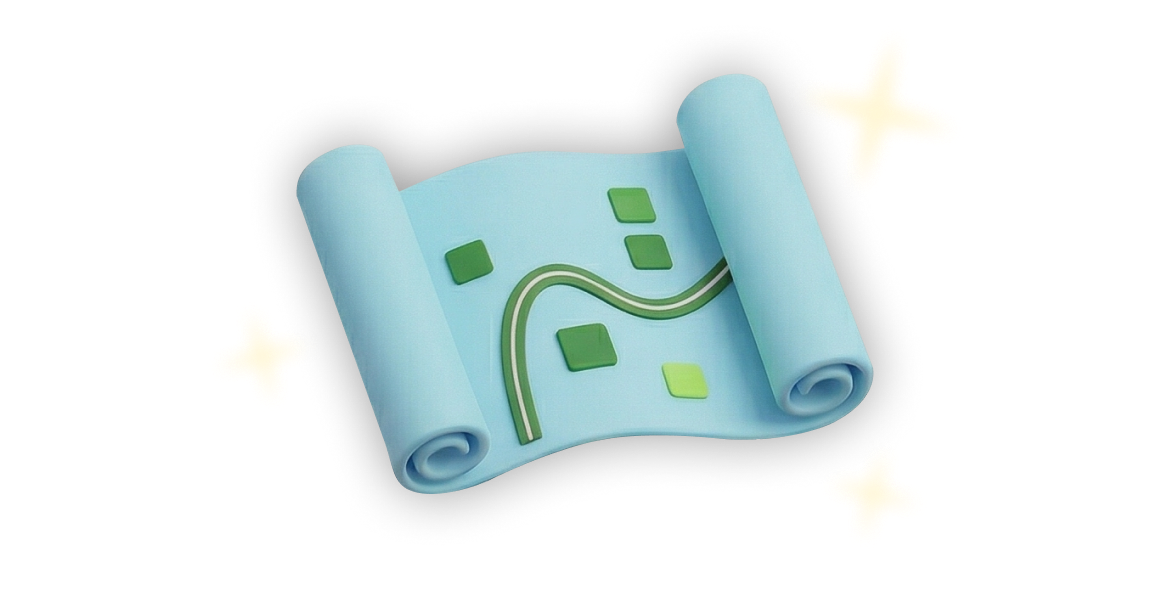
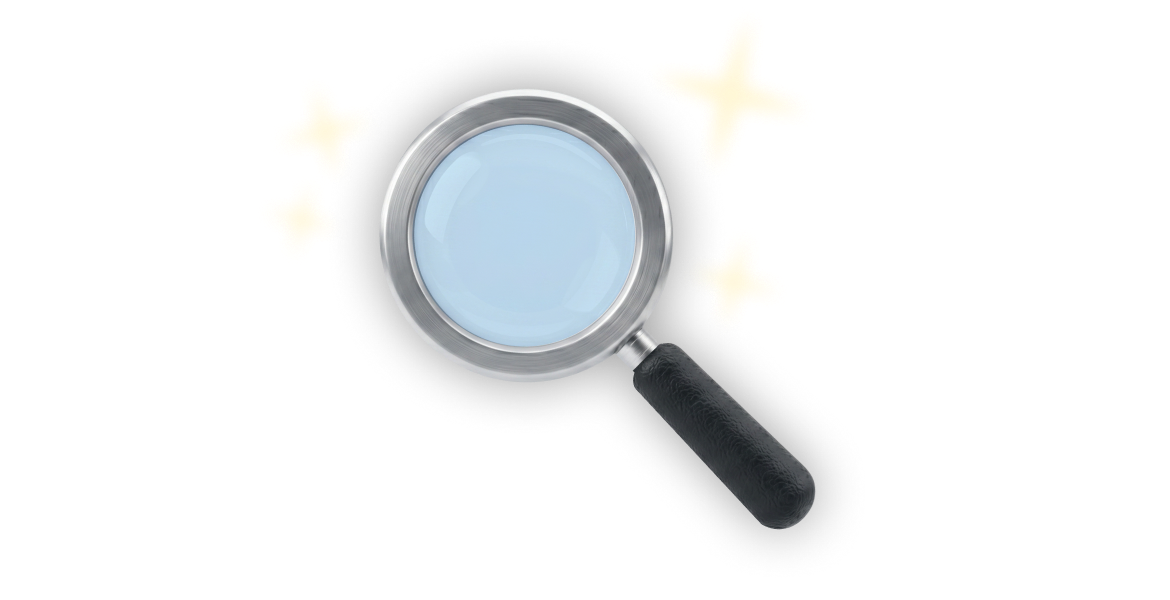
chore: figma 자산 정식 export로 교체 + harness 보강 (REST API 자가 export)
미션 3 가짜 PDP body 와 돋보기 popup 일러스트를 figma 1648:41636, 1648:42320
(scale=3) 으로 REST API export 하여 placeholder 를 교체한다. body 는 통째 export
후 header(0..94)/floating bar(1777..1857) 영역을 PIL 로 crop.

harness:
- 기존 "3x PNG 가 필요하면 사용자에게 export 요청" 규칙을 폐기하고
  "AI 가 Figma REST API 로 직접 export 한다" 로 변경. 사용자에게 export 를
  요청하지 말라는 명시 추가
- 텍스트 노드 inner span/text-shadow/이모지 누락 방지 가이드 (Mission 2 figma
  1648:39361 검증에서 도출, 직전 세션 미커밋 분)

diff --git a/CLAUDE.md b/CLAUDE.md
@@ -542,10 +542,32 @@ curl -o /tmp/asset.png "http://localhost:3845/assets/<hash>.png"
 curl -o /tmp/asset.svg "http://localhost:3845/assets/<hash>.svg"
 ```
 
-**합성된 프레임 (배너 등) 3x PNG export**: Figma MCP는 1x만 지원하므로 **사용자에게 직접 export 요청**
-- `get_screenshot`은 1x 해상도만 반환 (scale 파라미터 미지원)
-- 3x PNG가 필요한 경우: 사용자에게 Figma에서 해당 노드를 3x PNG로 export해서 파일 경로를 알려달라고 요청
-- 절대 1x를 upscale하거나 프로그래밍적으로 이미지를 생성하지 않는다
+**합성된 프레임 (배너 등) 3x PNG export — Figma REST API로 AI가 직접 export한다 (MANDATORY)**
+
+- `get_screenshot` (MCP) 은 1x 해상도만 반환 → MCP는 시각 검증용으로만 쓴다
+- 3x PNG 가 필요할 때 **사용자에게 export 를 요청하지 않는다**. Figma REST API 의 `/v1/images` 엔드포인트를 직접 호출하여 받는다.
+- **인증**: `~/.claude/CLAUDE.md` 의 `Figma Personal Access Token` 사용 (`X-Figma-Token: figd_...` 헤더)
+- **File key**: Figma URL 의 `/design/<file_key>/...` 세그먼트에서 추출 (SCC 프로젝트는 보통 `cpDrl9uG7RMjT5TvTGme3K`, `zcZnkEDGZZiCyA4mlJDAf0` 등)
+- **Node id**: Figma URL 쿼리 `?node-id=1648-42184` → API 에는 `1648:42184` 형식으로 (콜론). 콤마로 여러 개 동시 요청 가능
+
+표준 절차:
+
+```bash
+# 1) 이미지 export URL 받기 (S3 signed URL, 단명)
+curl -s "https://api.figma.com/v1/images/<FILE_KEY>?ids=<NODE_ID_1>,<NODE_ID_2>&scale=3&format=png" \
+  -H "X-Figma-Token: <PERSONAL_ACCESS_TOKEN>"
+# → {"err":null,"images":{"1648:42184":"https://figma-alpha-api.s3...","1648:42320":"https://..."}}
+
+# 2) S3 URL에서 PNG 다운로드
+curl -sS -o src/assets/img/<dir>/<asset>.png "<S3_URL_FROM_STEP_1>"
+
+# 3) 크기 검증 (3x 기준 figma 노드 width/height × 3 과 일치해야 함)
+sips -g pixelWidth -g pixelHeight src/assets/img/<dir>/<asset>.png
+```
+
+- **frame 안 일부만 export 가 필요할 때 (header/floating bar 제거 등)**: 노드를 통째로 받은 뒤 `python3 -c "from PIL import Image; Image.open('src.png').crop((x1,y1,x2,y2)).save('dst.png')"` 로 crop. `get_metadata` 결과의 y 좌표 × 3 으로 잘라낼 픽셀 범위 결정. **새 이미지를 합성/생성하는 게 아니라 figma export 의 부분 슬라이스이므로 허용된다.**
+- 절대 1x를 upscale 하거나 프로그래밍으로 이미지를 합성하지 않는다 (`Pillow` 로 새 도형 그리기 등 금지)
+- 사용자에게 "이 자산은 직접 export해주세요" 라고 요청하지 않는다 — AI 가 위 절차로 직접 처리
 
 #### Figma SVG 추출 시 필수 검증 (반복 실수 방지)
 
@@ -568,6 +590,20 @@ Figma MCP localhost URL에서 받은 SVG는 **inner path만 추출한 raw 데이
 - 측정 절차: (1) `get_design_context`로 해당 item 노드의 mask-size / wrapper size 정확히 확인 (2) 앱 PNG 파일 pixel dimension 확인 (`sips -g pixelWidth -g pixelHeight`) (3) @3x 기준으로 dp 역산 (pixel/3 = dp)
 - 예: PNG 270×288px → @3x → 90×96dp — 이게 렌더링 크기여야 함
 - **"대략 맞겠지"로 수치를 넘기지 말 것. Figma 노드 직접 측정이 유일한 기준.**
+
+**3. 텍스트 노드는 inner span 구조 + 부가 속성 + 콘텐츠 끝까지 본다**
+- Figma 한 텍스트가 내부에 weight/color가 다른 `<span>`을 섞는 경우가 흔하다 (예: 첫 줄 Bold + 나머지 Medium). props로 `description: string` 한 덩어리 받아 단일 font로 처리하면 figma와 어긋난다. design context의 nested span 구조를 그대로 nested `<Text>`로 옮긴다.
+  ```typescript
+  // RN에서 한 텍스트 안에 weight 섞기:
+  <Description>
+    <DescriptionTitle>{firstLine}</DescriptionTitle>
+    {bodyText}
+  </Description>
+  // 부모 Text의 lineHeight/letterSpacing은 그대로 상속됨, weight만 자식이 override
+  ```
+- `text-shadow`, `width` 제한, `letter-spacing` 같은 부가 속성은 fontSize/lineHeight를 옮기는 동안 자주 누락된다. 텍스트 노드의 모든 CSS 속성을 빠짐없이 확인한다. RN의 `textShadow*` prop은 `.attrs({style:{...}})` 패턴으로 적용.
+- 콘텐츠 문자열은 **이모지/마침표 포함 끝까지 옮긴다.** "됐어요 👍" 같은 마지막 이모지를 흘려 보내고 "됐어요!"로 적는 실수가 반복된다.
+- Precision Phase에서 catch될 항목이지만, 스크린샷 비교 전 텍스트 노드 inspection 단계에서 미리 막는다. (Mission 2 완료 팝업 figma 1648:39361 검증에서 도출)
 
 ### Two-Phase Design Implementation (필수)
 